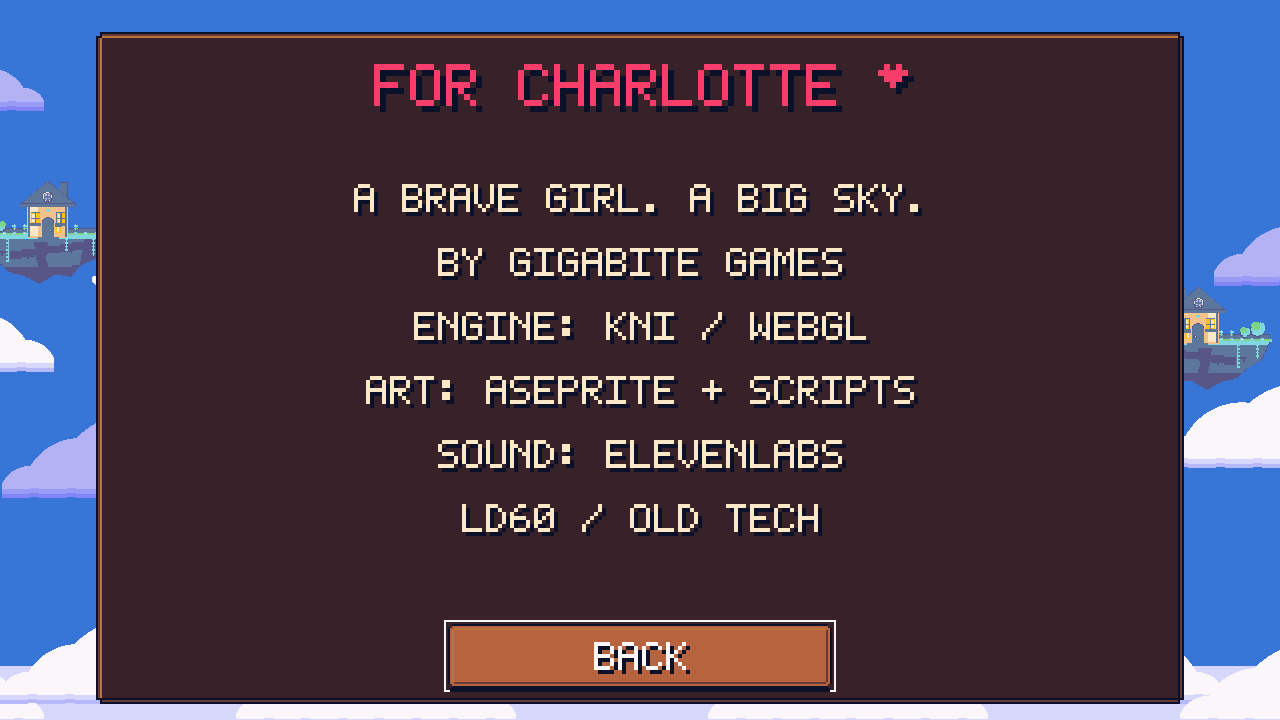
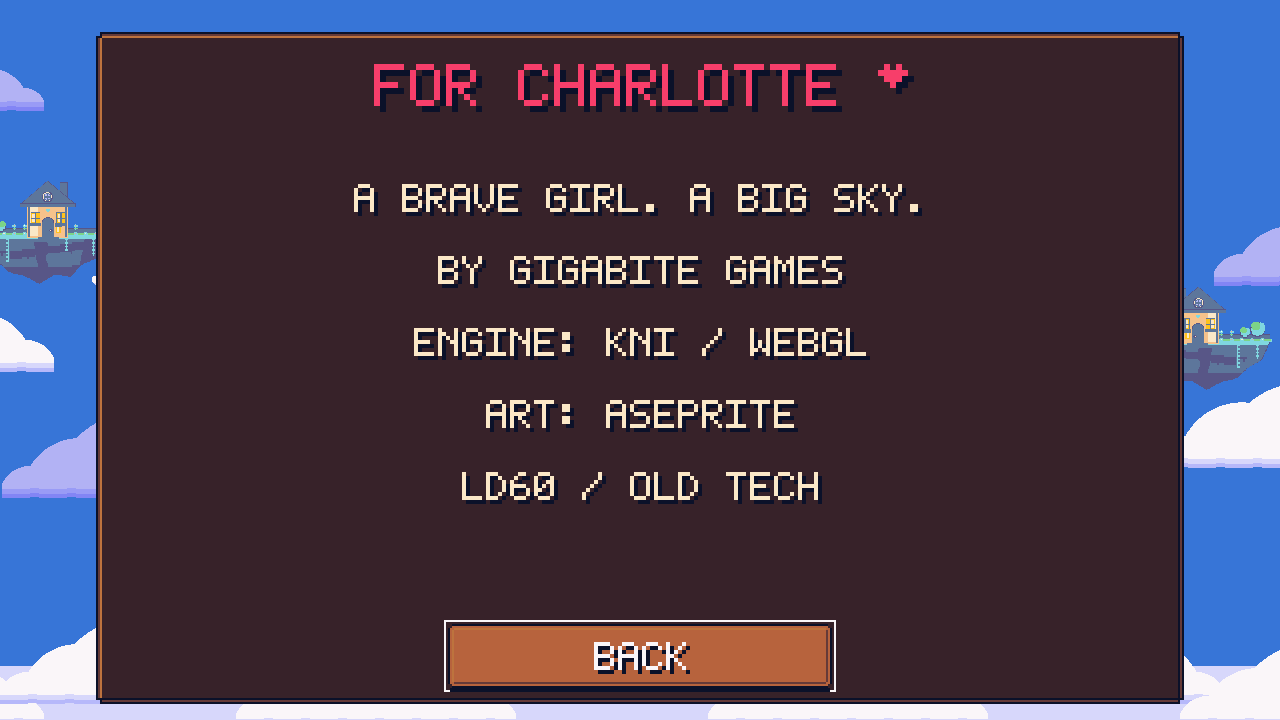
fix(credits): simplify the player-facing credits menu
Initiative: 31 (credits menu copy). Remove the sound-provider row and simplify the art row. Verified: npm run check, zero compiler warnings, 83 unit tests and 118 browser tests; creditstext bridge assertions, updated credits baselines and reviewed docs/screenshots/31-credits-{desktop,narrow}.png.

Changed region(s): [[0.2812, 0.4278, 0.7188, 0.7639], [0.3438, 0.3361, 0.6875, 0.3972]]

diff --git a/tests/menus.spec.js b/tests/menus.spec.js
@@ -8,6 +8,10 @@ test('the illustrated menu family has readable shared controls and a keyboard ro
  await clickUi(page,'settings');await expect.poll(()=>act(page,'screen')).toBe('settings');await capture('settings');
  await clickUi(page,'back');await expect.poll(()=>act(page,'screen')).toBe('menu');
  await clickUi(page,'credits');await expect.poll(()=>act(page,'screen')).toBe('credits');await capture('credits');
+ const credits=await page.evaluate(()=>window.__GAME.raw('creditstext'));
+ expect(credits).toContain('BY GIGABITE GAMES');expect(credits).toContain('ART: ASEPRITE');
+ expect(credits).not.toMatch(/ELEVENLABS|OPENAI|QWEN|\bAI\b|GENERAT/i);
+ await reviewShot(page,{path:path.join(SHOTS_DIR,`31-credits-${info.project.name}.png`)});
  await clickUi(page,'back');await expect.poll(()=>act(page,'screen')).toBe('menu');
  await page.keyboard.press('ArrowDown');await page.keyboard.press('Enter');await expect.poll(()=>act(page,'screen')).toBe('levels');
  await capture('skies');await clickUi(page,'course0');await expect.poll(()=>act(page,'screen')).toBe('world');

diff --git a/Balloonatic/Balloonatic.Game/Screens/CreditsScreen.cs b/Balloonatic/Balloonatic.Game/Screens/CreditsScreen.cs
@@ -5,14 +5,15 @@ using Microsoft.Xna.Framework;
 namespace Balloonatic.Screens
 {
     /// <summary>
-    /// Credits (I7), short enough to read in one look and honest: the tools are listed because they
-    /// are the workshop, and the dedication leads because it is the reason. The heart is the font's
+    /// Credits (I7), short enough to read in one look; the dedication leads. The heart is the font's
     /// own ♥ — the same five-by-seven cells as every other letter, so the love is typeset, not pasted.
     /// </summary>
     sealed class CreditsScreen : IUiScreen
     {
         readonly UiHost _host;
         bool _hover;
+        internal static readonly string[] Lines = { "A BRAVE GIRL. A BIG SKY.", "BY GIGABITE GAMES",
+            "ENGINE: KNI / WEBGL", "ART: ASEPRITE", "LD60 / OLD TECH" };
 
         public CreditsScreen(UiHost host) => _host = host;
 
@@ -32,8 +33,7 @@ namespace Balloonatic.Screens
             Kit.MenuBackdrop(canvas);Kit.Panel(canvas,new Rectangle(48,16,544,336));
             int font=Kit.Body(canvas);
             PixelFont.DrawCenteredShadowed(canvas,"FOR CHARLOTTE ♥",320,32,Theme.HeartPink,Kit.Heading(canvas));
-            string[] lines={"A BRAVE GIRL. A BIG SKY.","BY GIGABITE GAMES","ENGINE: KNI / WEBGL","ART: ASEPRITE + SCRIPTS","SOUND: ELEVENLABS","LD60 / OLD TECH"};
-            for(int i=0;i<lines.Length;i++)PixelFont.DrawCenteredShadowed(canvas,lines[i],320,92+i*32,Theme.TagCream,font);
+            for(int i=0;i<Lines.Length;i++)PixelFont.DrawCenteredShadowed(canvas,Lines[i],320,92+i*36,Theme.TagCream,font);
             Kit.Button(canvas,UiLayout.Back,"BACK",_hover?Kit.UiState.Hover:Kit.UiState.Rest,focused:true);
         }
     }

diff --git a/Balloonatic/Balloonatic.Game/BalloonaticGame.cs b/Balloonatic/Balloonatic.Game/BalloonaticGame.cs
@@ -429,6 +429,7 @@ namespace Balloonatic
             ((UiHost)this).LiveSettingsChanged();return "ok";
         }
         public string UiStatus() => UiLayout.Describe(canvas, Harness.State.Screen, Harness.State.Complete);
+        public string CreditsText() => string.Join("|", CreditsScreen.Lines);
         public string BackdropStatus() => SkyBackdrop.Describe(Harness.State);
         public string ArtStatus() => WorldArt.Describe(Harness.State);
 

diff --git a/Balloonatic/Balloonatic.Blazor.GL/Bridge.cs b/Balloonatic/Balloonatic.Blazor.GL/Bridge.cs
@@ -53,6 +53,7 @@ namespace Balloonatic
             if (name == "progress") return game.ProgressStatus();
             if (name == "ui")
                 return game.UiStatus();
+            if (name == "creditstext")return game.CreditsText();
             if (name == "backdrop")
                 return game.BackdropStatus();
             if (name == "art")

diff --git a/PLAN.md b/PLAN.md
@@ -142,6 +142,21 @@ Judge controls after I20 and the full first slice after I25 before extending it.
 **Cut first:** I27–I28, elaborate progression/map work, collectibles and extra animation. Preserve
 recoverable flight, one meaningful beautiful delivery, readable UI and WebGL validation.
 
+## Playtest corrections — October 18
+
+- [x] **I31 — Credits menu copy** (~30m)
+  Remove the sound-provider credit and any AI wording from the player-facing credits menu.
+  Assert the displayed copy through the bridge and review desktop/narrow credits.
+  Verified: zero compiler warnings, 83 unit tests and 118 browser tests; `creditstext` mirrors the
+  displayed rows. Updated the two credits baselines and reviewed `31-credits-*` at both sizes.
+- [ ] **I32 — Stable world signs** (~60m)
+  Keep sign lettering, board and supporting world geometry on the same rendering grid during travel.
+  Inspect a moving sequence and prove sign-to-platform placement through the bridge.
+- [ ] **I33 — Platform contact and sliding** (~90m)
+  Align deck artwork and collision surfaces, support ordinary landings across each full deck,
+  and allow a landed basket to slide across to the delivery area. Prove edge approaches, takeoff,
+  hard contacts, both drift directions and the full voyage in WebGL.
+
 ## Design decisions (answers to `docs/CONCEPT.md` §16)
 1. **Burner:** hold-to-heat with a temperature integrator. No intensity slider — one verb, and the
    lift curve does the expressing.
